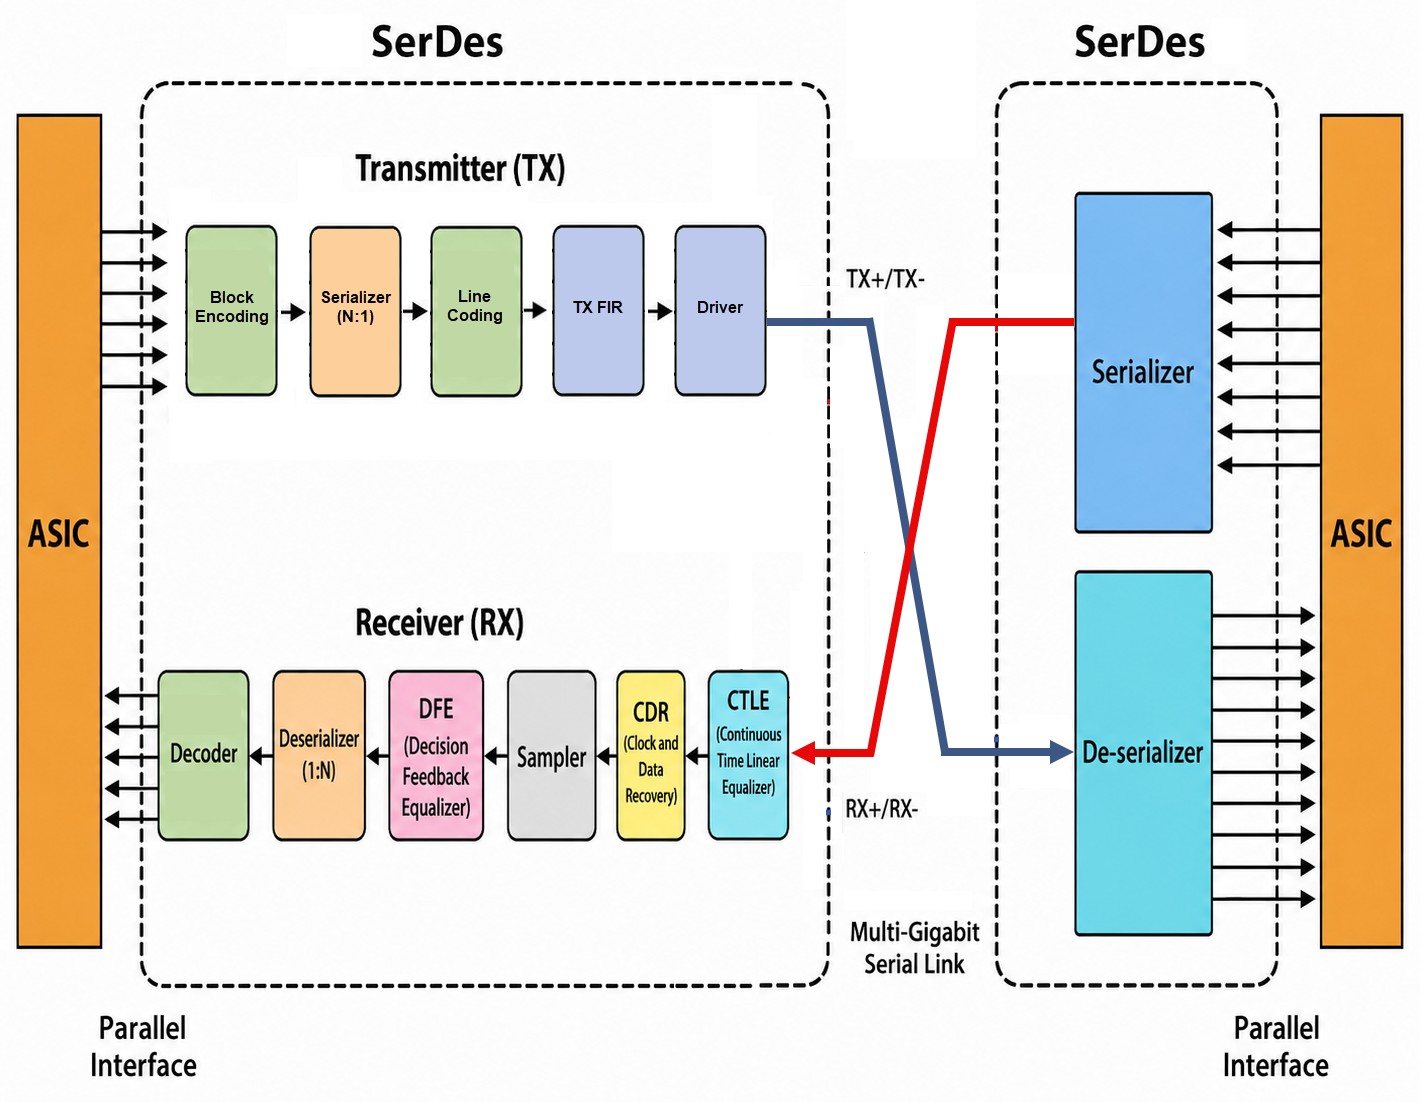
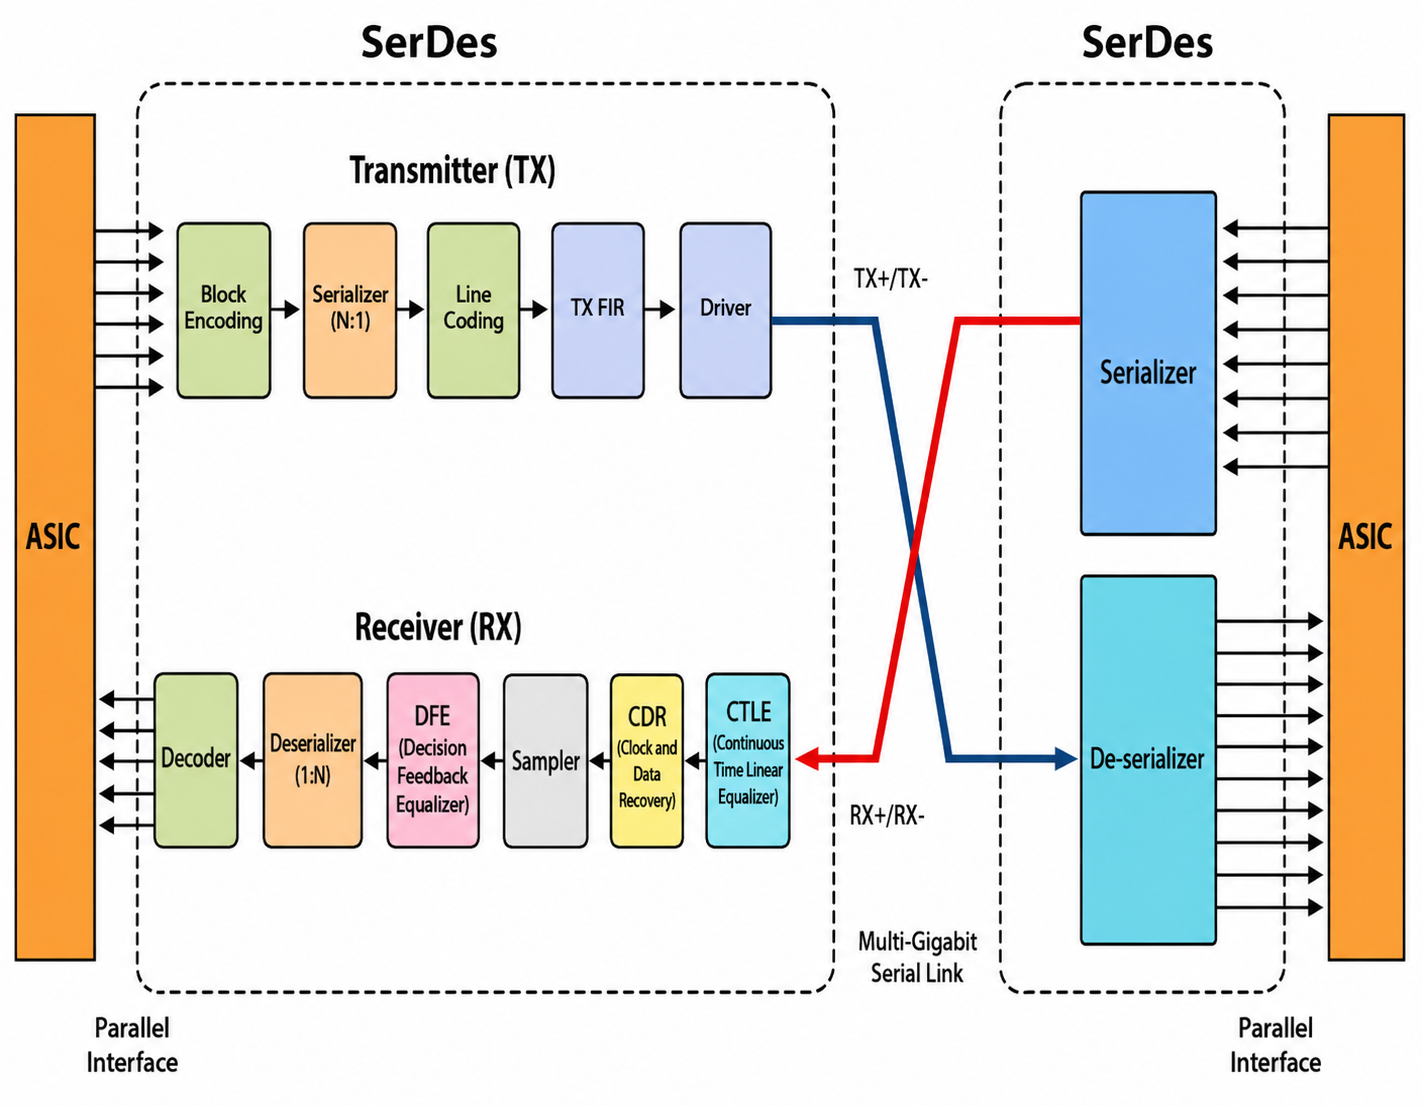
improvements

Changed region(s): [[0.0, 0.0, 0.9915, 0.9873], [0.7127, 0.8639, 0.9296, 0.9873], [0.7127, 0.0, 0.8986, 0.0926]]

diff --git a/docs/01_README_npu.md b/docs/01_README_npu.md
@@ -14,7 +14,7 @@ Every network switch operates across two distinct processing domains:
 
 <img src="../pics/switch-planes.png" alt="High-level switch architecture" width="700">
 
-The CPU never touches forwarded packets. It computes routing decisions (e.g., BGP best path), then programs the results into the NPU's forwarding tables. From that point, the NPU handles all matching traffic autonomously in hardware. This division is what allows a switch with a modest embedded processor to forward terabits per second of traffic.
+This division is what allows a switch with a modest embedded processor to forward terabits per second of traffic: the CPU computes a routing decision once (e.g., BGP best path) and programs it into the NPU, which then handles all matching packets autonomously without further CPU involvement.
 
 | Domain        | Component            | Role                                                   |
 | ------------- | -------------------- | ------------------------------------------------------ |
@@ -87,14 +87,20 @@ The sections below focus on Broadcom in detail because it is the ASIC used in th
 
 ## Broadcom Switching ASIC Generations
 
-Broadcom is the dominant merchant silicon vendor for data center switches. They produce two main families of switching ASICs under the StrataXGS brand, plus a carrier-grade family. Both data center families roughly double in bandwidth every two years.
+Broadcom organizes its switching and routing ASICs under two platform brands:
+
+- **StrataXGS** — The Ethernet switching platform, optimized for high port-density, low-latency, cut-through forwarding with shallow on-chip buffers (SRAM). This brand covers both the **Tomahawk** and **Trident** families used in data center and enterprise switches.
+
+- **StrataDNX** — The carrier routing platform, optimized for deep packet buffering (external HBM), large routing tables (millions of FIB entries), MPLS/segment routing, and fabric-attach multi-chassis architectures. This brand covers the **Jericho** family used in service provider core routers and DCI platforms.
+
+Both StrataXGS families roughly double in bandwidth every two years.
 
 **Tomahawk (bandwidth-optimized)**
 
 The **Tomahawk** family prioritizes raw switching bandwidth with a simpler fixed pipeline — it is used in spine switches and high-density leaf switches where throughput matters most.
 
-| Generation | Chip     | Year | Throughput | SerDes          | Process |
-| ---------- | -------- | ---- | ---------- | --------------- | ------- |
+| Generation | Chip     | Year | Throughput | SerDes         | Process |
+| ---------- | -------- | ---- | ---------- | -------------- | ------- |
 | Tomahawk   | BCM56960 | 2014 | 3.2 Tbps   | 128× 25G NRZ   | 28 nm   |
 | Tomahawk 2 | BCM56970 | 2016 | 6.4 Tbps   | 256× 25G NRZ   | 16 nm   |
 | Tomahawk 3 | BCM56980 | 2017 | 12.8 Tbps  | 256× 50G PAM4  | 7 nm    |
@@ -114,9 +120,9 @@ The **Trident** family prioritizes feature depth and programmability — it supp
 | Trident 4   | BCM56880 | 2019 | up to 12.8 Tbps | 50G PAM4  | 7 nm    |
 | Trident 5   | BCM78800 | 2023 | 16 Tbps         | 100G PAM4 | 5 nm    |
 
-**StrataDNX / Jericho (carrier and DCI)**
+**Jericho (carrier and DCI)**
 
-Broadcom also produces the **Jericho** family for carrier-grade routing and DCI (Data Center Interconnect). Jericho chips emphasize deep packet buffering (using HBM), large routing tables (millions of entries), and fabric-attach architectures for multi-chassis systems. They are used in core routers and spine-layer routers, not in ToR leaf switches.
+The **Jericho** family targets carrier-grade routing and DCI (Data Center Interconnect). Jericho chips emphasize deep packet buffering (using HBM), large routing tables (millions of entries), and fabric-attach architectures for multi-chassis systems. They are used in core routers and spine-layer routers, not in ToR leaf switches.
 
 | Generation  | Year | Throughput |
 | ----------- | ---- | ---------- |

diff --git a/docs/02_README_serdes.md b/docs/02_README_serdes.md
@@ -26,7 +26,7 @@ A **SerDes** is the analog/mixed-signal circuit block on the NPU that performs t
 
 The diagram below shows the internal stages of a SerDes:
 
-<img src="../pics/serdes_full.png" alt="SerDes block diagram" width="750">
+<img src="../pics/serdes_full.png" alt="SerDes block diagram" width="800">
 
 On transmit:
 
@@ -40,7 +40,7 @@ On the transmit side, **block encoding** (e.g., 64b/66b with scrambling) adds fr
 
 On the receive side, **CTLE** boosts high frequencies attenuated by the channel, partially restoring the signal so downstream stages can recover the data. **CDR** recovers the clock embedded in the data transitions. The **sampler** captures the signal at the optimal point using that clock. **DFE** cancels residual inter-symbol interference using previous decisions. The **deserializer** converts the recovered serial bitstream back into a wide parallel word. The **decoder** reverses block encoding — descrambling, removing sync headers, and extracting control characters — to recover the original data.
 
-> The diagram omits [FEC encoding](03_signal_basics.md#forward-error-correction-fec), which sits between block encoding and the serializer on transmit, and between the deserializer and decoder on receive. For a detailed discussion of encoding stages and FEC, see [Digital Signal Fundamentals](03_signal_basics.md). For equalization and link training, see [Link Equalization](04_signal_training.md).
+> The diagram omits FEC encoding, which sits between block encoding and the serializer on transmit, and between the deserializer and decoder on receive. For a detailed discussion of encoding stages and FEC, see [Digital Signal Fundamentals](03_signal_basics.md). For equalization and link training, see [Link Equalization](04_signal_training.md).
 
 ## SerDes Lanes
 
@@ -75,7 +75,7 @@ The table below shows how lane count and per-lane rate determine this budget acr
 | NVIDIA Spectrum-4              | 512         | 100 Gb/s      | PAM4       | 51.2 Tbps   |
 | Broadcom Tomahawk 6 (BCM78910) | 512         | 200 Gb/s      | PAM4       | 102.4 Tbps  |
 
-Note that ASICs within the same generation (e.g., Tomahawk 5 and Spectrum-4) share the same SerDes rate and lane count, yet differ in forwarding features, buffer architecture, and programmability.
+Note that ASICs targeting the same Ethernet bandwidth class (e.g., Tomahawk 5 and Spectrum-4) share the same SerDes rate and lane count, yet differ in forwarding features, buffer architecture, and programmability.
 
 ## Port Macros
 
@@ -168,7 +168,7 @@ The table below lists the major SerDes IP providers in the industry:
 | **Broadcom**              | In-house (proprietary)     | All generations, 10G through 200G | 200 Gb/s | Designs SerDes for its own Tomahawk / Trident / Jericho ASICs; does not license to others |
 | **NVIDIA (Mellanox)**     | In-house (proprietary)     | All generations for Spectrum and ConnectX | 100 Gb/s | Proprietary SerDes tightly co-designed with NIC and switch ASICs |
 | **Marvell**               | In-house + acquired IP     | SerDes for Prestera, Teralynx, and custom platforms | 100 Gb/s | In-house capability bolstered by Inphi (optical DSP) and Innovium acquisitions |
-| **Intel** (Altera)        | In-house (FPGA-integrated) | Transceiver hard macros in Stratix, Agilex FPGAs | 116 Gb/s | SerDes baked into FPGA fabric; also used in Tofino switch ASICs |
+| **Intel** (Altera)        | In-house (FPGA-integrated) | Transceiver hard macros in Stratix, Agilex FPGAs | 116 Gb/s | SerDes integrated into FPGA fabric; also used in Tofino switch ASICs |
 
 A few patterns are worth noting. The third-party IP market is dominated by EDA giants (Synopsys, Cadence) and a handful of focused connectivity companies (Alphawave, Credo, Rambus). NPU vendors with the highest volumes (Broadcom, NVIDIA) tend to keep SerDes in-house because the engineering investment is amortized across millions of shipped ASICs and because co-optimizing SerDes with the forwarding pipeline yields performance and power advantages. Smaller or newer entrants license IP to reach market faster — the licensing fee is significant but far less than funding an analog design team for several years.
 
@@ -193,6 +193,6 @@ Key observations:
 
 - **Blackhawk7 is a process shrink, not a new architecture.** TH4 and Trident 4 use "Blackhawk7" — the same Blackhawk analog design ported from 16nm (TH3) to 7nm. The SerDes is functionally equivalent; the shrink improves power and area.
 
-- **Lane count scaling.** Tomahawk doubled its lane count from 128 (TH1) to 256 (TH2) within the Falcon generation, then doubled again to 512 (TH4) in the Blackhawk generation. Since TH4, the lane count has held at 512 while per-lane rate doubles each generation — the I/O budget now scales purely through faster SerDes.
+- **Lane count scaling.** Tomahawk doubled its lane count from 128 (TH1) to 256 (TH2) within the Falcon generation. TH3 retained 256 lanes when it moved to Blackhawk (50G PAM4), then TH4 doubled again to 512 lanes. Since TH4, the lane count has held at 512 while per-lane rate doubles each generation — the I/O budget now scales purely through faster SerDes.
 
 - **Jericho (not shown).** Broadcom's service-provider routing family (Jericho 2, Jericho 3) uses Blackhawk for 50G PAM4 fabric links alongside Falcon16 (a multi-lane variant) for 25G NRZ backward compatibility.

diff --git a/docs/03_signal_basics.md b/docs/03_signal_basics.md
@@ -75,7 +75,7 @@ In modern high-speed serial links, "NRZ" almost universally refers to Polar NRZ-
 
 ### PAM4 (Pulse Amplitude Modulation, 4-Level)
 
-With NRZ, the only way to increase data rate is to increase the symbol rate — transmit more symbols per second. But the physical channel pushes back: higher symbol rates mean higher-frequency signal components, and copper traces and connectors attenuate high frequencies far more than low frequencies. At some point, the channel loss becomes so severe that the signal arriving at the receiver is too degraded to sample reliably, no matter how good the equalization is. For NRZ, this practical ceiling is roughly 56 Gb/s per lane.
+With NRZ, the only way to increase data rate is to increase the symbol rate — transmit more symbols per second. But the physical channel pushes back: higher symbol rates mean higher-frequency signal components, and copper traces and connectors attenuate high frequencies far more than low frequencies. At some point, the channel loss becomes so severe that the signal arriving at the receiver is too degraded to sample reliably, no matter how good the equalization is. For NRZ over typical Ethernet channel lengths, this practical ceiling is around 25–28 GBd per lane.
 
 PAM4 sidesteps this limit by encoding more data into each symbol rather than transmitting symbols faster. Instead of two voltage levels (1 bit per symbol), PAM4 uses four voltage levels (2 bits per symbol), doubling the data rate at the same baud rate:
 
@@ -97,8 +97,6 @@ The trade-off is noise margin: packing four levels into the same voltage swing m
 Gray code assigns bit patterns to adjacent signal levels such that neighboring levels differ by only one bit. In PAM4, without Gray coding, the four levels would be labeled 00, 01, 10, 11 — and a transition between 01 and 10 (the middle pair) would flip both bits. With Gray coding (00, 01, 11, 10), every adjacent-level error changes only one bit.
 
 This matters because PAM4's tight level spacing makes level-to-level confusion the most common error. Gray coding ensures the most likely error (confusing adjacent levels) produces a single-bit error instead of a two-bit error, cutting the effective bit error impact in half and improving observed BER without any analog hardware changes.
-
-
 
 ## Block Encoding
 